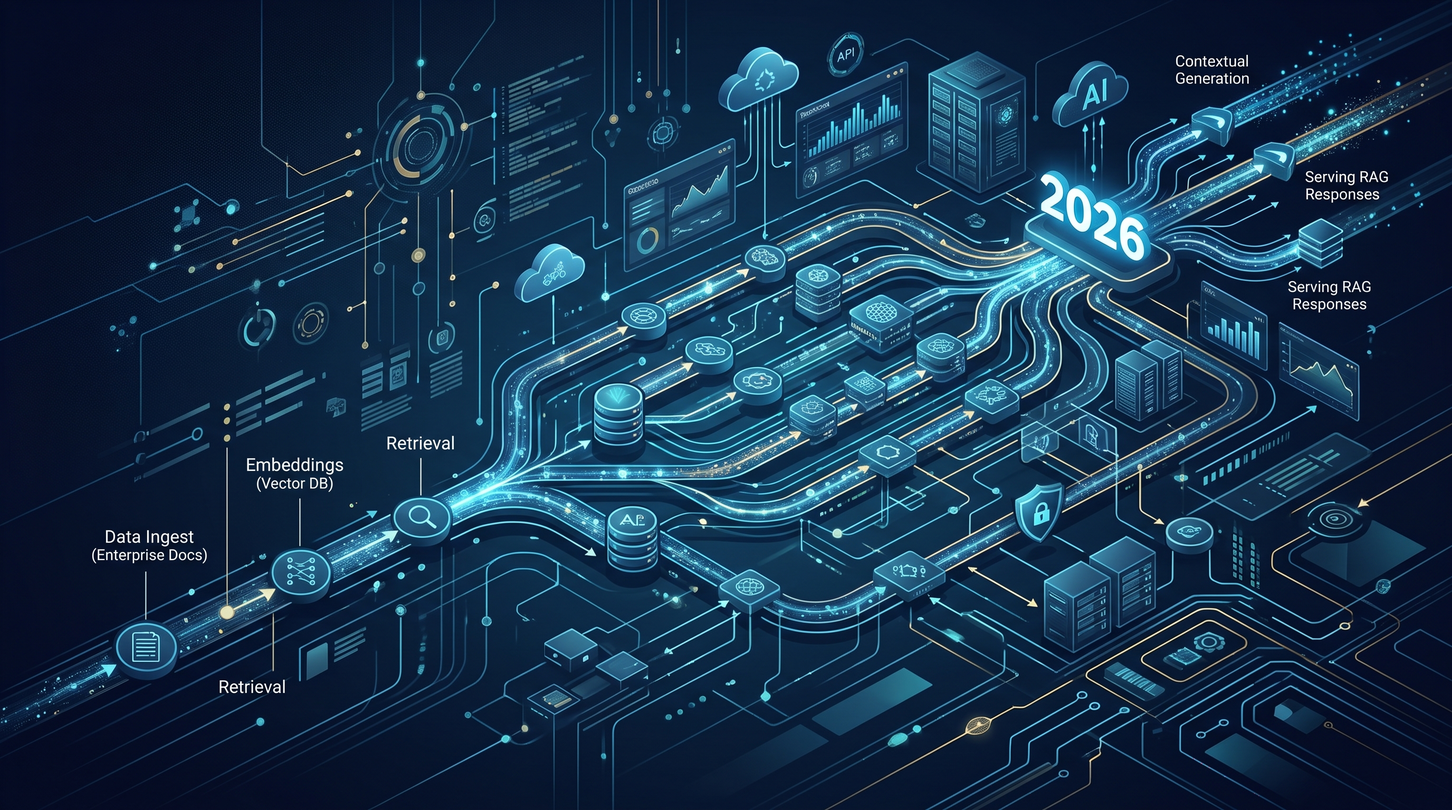
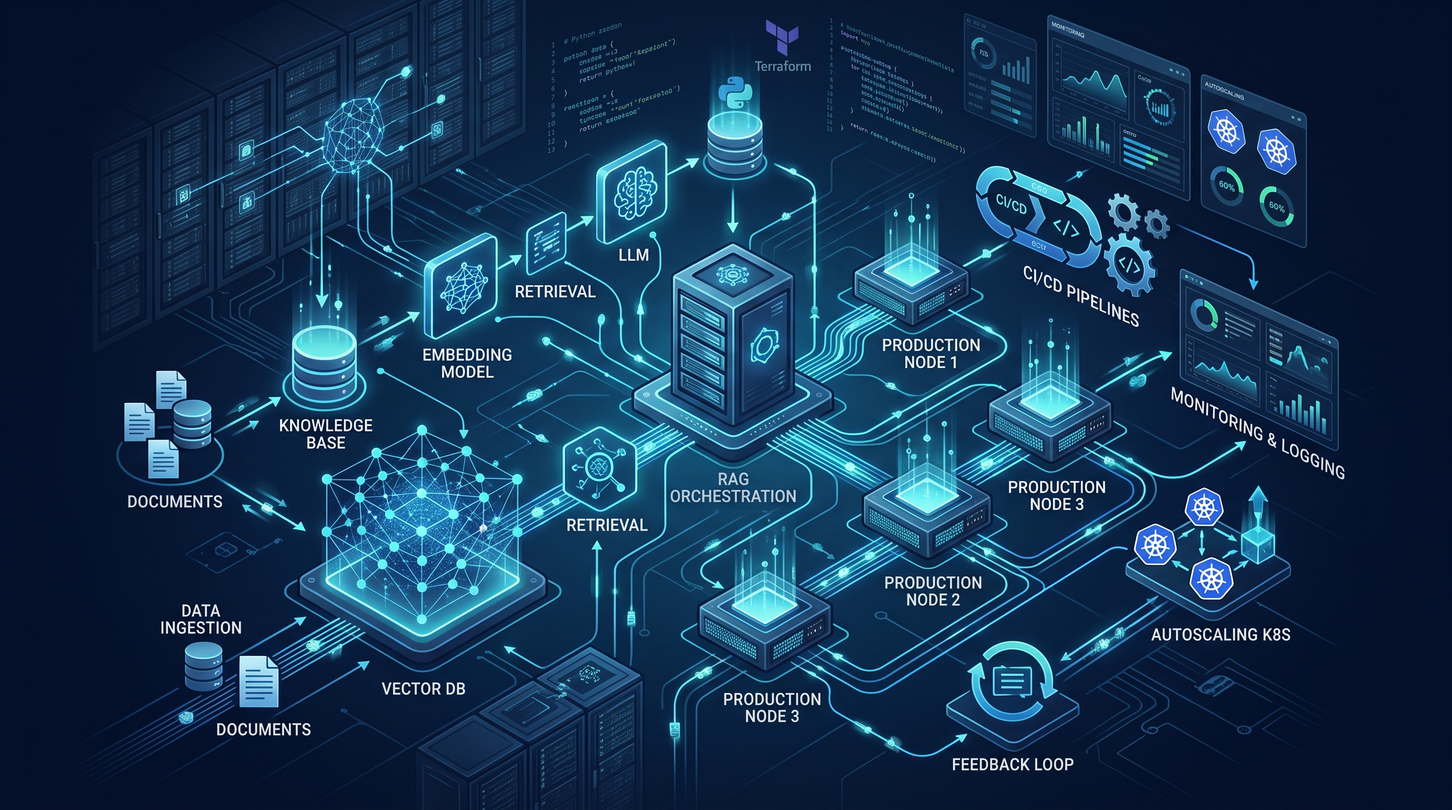
blog: Scaling RAG Pipelines in Production: Lessons from 2026

diff --git a/docs/blog/posts/rag-pipeline-production-scaling-2026.html b/docs/blog/posts/rag-pipeline-production-scaling-2026.html
@@ -3,9 +3,9 @@
 <head>
     <meta charset="UTF-8">
     <meta name="viewport" content="width=device-width, initial-scale=1.0">
-    <meta name="title" content="Scaling RAG Pipeline Production Scaling 2026 | Gheware DevOps AI">
-    <meta name="description" content="A senior DevOps engineer’s guide to scaling RAG pipelines in 2026. Covers vector DB tuning, caching strategies, and Kubernetes deployment patterns for production-grade.">
-    <meta name="keywords" content="rag pipeline production scaling 2026, RAG architecture, vector database scaling, LLM ops, enterprise AI infrastructure, Kubernetes AI workloads, latency optimization, retrieval-augmented generation">
+    <meta name="title" content="Scaling RAG Pipelines in Production: Lessons from 2026 | Gheware DevOps AI">
+    <meta name="description" content="How to scale a RAG pipeline to production in 2026. Avoid common pitfalls in vector indexing, chunking, and observability for reliable enterprise AI.">
+    <meta name="keywords" content="rag pipeline production scaling 2026, enterprise rag, vector databases, llm observability, kubernetes ai, agentic workflows, production ml, ai infrastructure">
     <meta name="author" content="Rajesh Gheware">
     <meta name="robots" content="index, follow, max-snippet:-1, max-image-preview:large">
     <link rel="canonical" href="https://devops.gheware.com/blog/posts/rag-pipeline-production-scaling-2026.html">
@@ -13,37 +13,37 @@
     <link rel="stylesheet" href="/css/premium.css">
     <meta property="og:type" content="article">
     <meta property="og:url" content="https://devops.gheware.com/blog/posts/rag-pipeline-production-scaling-2026.html">
-    <meta property="og:title" content="Scaling RAG Pipeline Production Scaling 2026">
-    <meta property="og:description" content="A senior DevOps engineer’s guide to scaling RAG pipelines in 2026. Covers vector DB tuning, caching strategies, and Kubernetes deployment patterns for production-grade.">
+    <meta property="og:title" content="Scaling RAG Pipelines in Production: Lessons from 2026">
+    <meta property="og:description" content="How to scale a RAG pipeline to production in 2026. Avoid common pitfalls in vector indexing, chunking, and observability for reliable enterprise AI.">
     <meta property="og:image" content="https://devops.gheware.com/blog/assets/images/rag-pipeline-production-scaling-2026-thumbnail.jpeg">
     <meta property="og:site_name" content="Gheware DevOps AI">
-    <meta property="article:published_time" content="2026-06-29T09:00:00+05:30">
+    <meta property="article:published_time" content="2026-07-09T09:00:00+05:30">
     <meta property="article:author" content="Rajesh Gheware">
     <meta property="article:section" content="RAG">
     <meta property="article:tag" content="rag pipeline production scaling 2026">
-    <meta property="article:tag" content="RAG architecture">
-    <meta property="article:tag" content="vector database scaling">
+    <meta property="article:tag" content="enterprise rag">
+    <meta property="article:tag" content="vector databases">
     <meta name="twitter:card" content="summary_large_image">
-    <meta name="twitter:title" content="Scaling RAG Pipeline Production Scaling 2026">
-    <meta name="twitter:description" content="A senior DevOps engineer’s guide to scaling RAG pipelines in 2026. Covers vector DB tuning, caching strategies, and Kubernetes deployment patterns for production-grade.">
+    <meta name="twitter:title" content="Scaling RAG Pipelines in Production: Lessons from 2026">
+    <meta name="twitter:description" content="How to scale a RAG pipeline to production in 2026. Avoid common pitfalls in vector indexing, chunking, and observability for reliable enterprise AI.">
     <meta name="twitter:image" content="https://devops.gheware.com/blog/assets/images/rag-pipeline-production-scaling-2026-thumbnail.jpeg">
-    <title>Scaling RAG Pipeline Production Scaling 2026</title>
+    <title>Scaling RAG Pipelines in Production: Lessons from 2026</title>
     <script type="application/ld+json">
     {
         "@context": "https://schema.org",
         "@type": "BlogPosting",
         "mainEntityOfPage": { "@type": "WebPage", "@id": "https://devops.gheware.com/blog/posts/rag-pipeline-production-scaling-2026.html" },
-        "headline": "Scaling RAG Pipeline Production Scaling 2026",
-        "description": "A senior DevOps engineer’s guide to scaling RAG pipelines in 2026. Covers vector DB tuning, caching strategies, and Kubernetes deployment patterns for production-grade.",
+        "headline": "Scaling RAG Pipelines in Production: Lessons from 2026",
+        "description": "How to scale a RAG pipeline to production in 2026. Avoid common pitfalls in vector indexing, chunking, and observability for reliable enterprise AI.",
         "image": { "@type": "ImageObject", "url": "https://devops.gheware.com/blog/assets/images/rag-pipeline-production-scaling-2026-thumbnail.jpeg", "width": 1200, "height": 630 },
-        "datePublished": "2026-06-29T09:00:00+05:30",
-        "dateModified": "2026-06-29T09:00:00+05:30",
+        "datePublished": "2026-07-09T09:00:00+05:30",
+        "dateModified": "2026-07-09T09:00:00+05:30",
         "author": { "@type": "Person", "name": "Rajesh Gheware", "url": "https://linkedin.com/in/rajesh-gheware" },
         "publisher": { "@type": "Organization", "name": "Gheware DevOps AI", "url": "https://devops.gheware.com",
             "logo": { "@type": "ImageObject", "url": "https://devops.gheware.com/favicon.svg" } },
-        "keywords": "rag pipeline production scaling 2026, RAG architecture, vector database scaling, LLM ops, enterprise AI infrastructure, Kubernetes AI workloads, latency optimization, retrieval-augmented generation",
+        "keywords": "rag pipeline production scaling 2026, enterprise rag, vector databases, llm observability, kubernetes ai, agentic workflows, production ml, ai infrastructure",
         "articleSection": "RAG",
-        "wordCount": "1154",
+        "wordCount": "1063",
         "inLanguage": "en-US"
     }
     </script>
@@ -54,7 +54,7 @@
     <nav class="breadcrumb-nav" aria-label="Breadcrumb"><div class="container"><ol class="breadcrumb">
         <li><a href="/">Home</a></li>
         <li><a href="/blog/">Blog</a></li>
-        <li>Scaling RAG Pipeline Production Scaling 2026</li>
+        <li>Scaling RAG Pipelines in Production: Lessons from 2026</li>
     </ol></div></nav>
     <article class="blog-post" itemscope itemtype="https://schema.org/BlogPosting">
         <meta itemprop="mainEntityOfPage" content="https://devops.gheware.com/blog/posts/rag-pipeline-production-scaling-2026.html">
@@ -62,120 +62,134 @@
             <header class="post-header">
                 <div class="post-category-wrapper">
                     <span class="post-category" itemprop="articleSection">RAG</span>
-                    <span class="reading-time">6 min read</span>
+                    <span class="reading-time">5 min read</span>
                 </div>
-                <h1 class="post-title" itemprop="headline">Scaling RAG Pipeline Production Scaling 2026</h1>
-                <p class="post-subtitle" itemprop="description">Practical engineering patterns for building resilient, low-latency RAG systems in enterprise environments, moving beyond prototype to reliable production.</p>
+                <h1 class="post-title" itemprop="headline">Scaling RAG Pipelines in Production: Lessons from 2026</h1>
+                <p class="post-subtitle" itemprop="description">Practical engineering patterns for low-latency, high-accuracy RAG systems at enterprise scale.</p>
                 <div class="post-meta">
                     <div class="author-mini" itemprop="author" itemscope itemtype="https://schema.org/Person">
                         <img src="/images/rajesh.png" alt="Rajesh Gheware" class="author-avatar-small">
                         <div class="author-meta-text">
                             <span class="author-name" itemprop="name">Rajesh Gheware</span>
-                            <time itemprop="datePublished" datetime="2026-06-29T09:00:00+05:30">June 29, 2026</time>
+                            <time itemprop="datePublished" datetime="2026-07-09T09:00:00+05:30">July 9, 2026</time>
                         </div>
                     </div>
                 </div>
             </header>
             <figure class="post-hero">
-                <img src="/blog/assets/images/rag-pipeline-production-scaling-2026-thumbnail.jpeg" alt="Scaling RAG Pipeline Production Scaling 2026" class="post-hero-image" itemprop="image"
+                <img src="/blog/assets/images/rag-pipeline-production-scaling-2026-thumbnail.jpeg" alt="Scaling RAG Pipelines in Production: Lessons from 2026" class="post-hero-image" itemprop="image"
                      loading="eager" width="1200" height="630">
             </figure>
             <aside class="key-takeaways">
                 <h2>Key Takeaways</h2>
                 <ul>
-                    <li>1. Caching is not optional; it is the primary lever for cost and latency control.</li>
-                    <li>2. Vector databases require distinct scaling strategies for write-heavy ingestion vs read-heavy retrieval.</li>
-                    <li>3. Observability must track semantic drift, not just system metrics.</li>
-                    <li>4. Kubernetes autoscaling for GPU workloads requires custom metrics, not just CPU/RAM.</li>
-                    <li>5. Production RAG is an SRE problem, not just a data science experiment.</li>
+                    <li>Hybrid search outperforms pure vector search for most enterprise use cases.</li>
+                    <li>Chunking strategy dictates retrieval quality more than model choice.</li>
+                    <li>Observability is non-negotiable for debugging hallucinations and latency.</li>
+                    <li>Kubernetes resource quotas must account for GPU memory fragmentation.</li>
+                    <li>Caching layers reduce token costs by up to 40% in repetitive queries.</li>
                 </ul>
             </aside>
             <nav class="table-of-contents" aria-label="Table of Contents">
                 <h2>Table of Contents</h2>
                 <ol>
-<li><a href="#section-1">Section 1</a></li>
+<li><a href="#section-1">The Myth of the Simple RAG Pipeline</a></li>
+<li><a href="#section-2">Architectural Patterns for High-Throughput Retrieval</a></li>
+<li><a href="#section-3">Chunking Strategies and Embedding Models</a></li>
+<li><a href="#section-4">Observability and Debugging</a></li>
+<li><a href="#section-5">Cost Management and Caching</a></li>
+<li><a href="#faq">Frequently Asked Questions</a></li>
                 </ol>
             </nav>
             <div class="post-content" itemprop="articleBody">
 <section id="section-1">
-I have spent the last 25 years building infrastructure for JPMorgan Chase, Deutsche Bank, and Morgan Stanley. In that time, I have watched every hype cycle come and go. The current obsession with Large Language Models (LLMs) is different. It is not just another microservice; it is a probabilistic service that introduces non-determinism into deterministic systems. When we talk about **rag pipeline production scaling 2026**, we are not discussing how to make a Jupyter notebook run faster. We are discussing how to build a system that remains stable under load, respects data governance, and delivers answers with sub-second latency.
+<h2>The Myth of the Simple RAG Pipeline</h2>
 
-Most teams fail here because they treat RAG as a software feature rather than an infrastructure challenge. In 2026, the gap between a prototype and production is defined by observability, caching, and resource isolation.
+In my twenty-five years of building infrastructure at institutions like JPMorgan Chase and Deutsche Bank, I’ve seen many "silver bullet" technologies come and go. Retrieval-Augmented Generation (RAG) is not a silver bullet; it is a complex engineering challenge that requires rigorous production discipline. When you move from a Jupyter notebook prototype to a production environment serving thousands of requests per minute, the assumptions that held true in development collapse.
 
-### The Myth of Infinite Context
+The primary failure mode in 2026 is not the LLM itself, but the pipeline surrounding it. We are no longer just embedding documents; we are managing state, latency budgets, and cost constraints across distributed systems. A naive implementation that works for ten documents will choke on ten million. The difference between a prototype and a production-grade system lies in the details of indexing, retrieval, and evaluation.
+</section>
+<section id="section-2">
+<h2>Architectural Patterns for High-Throughput Retrieval</h2>
 
-The first lesson I learned the hard way is that context window is not a storage solution. It is a computation constraint. When we first deployed our internal knowledge retrieval system, we naively dumped entire PDFs into the prompt. The result was a 40% increase in latency and a significant degradation in answer quality due to the "lost in the middle" phenomenon.
+The first hard lesson is that pure vector search is rarely sufficient for enterprise data. Most corporate documents contain a mix of unstructured text, structured metadata, and hierarchical relationships. Relying solely on cosine similarity in a vector database leads to poor recall for specific factual queries.
 
-Scaling RAG requires a strict separation of concerns. The pipeline must ingest, chunk, embed, and store data independently of the query phase. This decoupling allows us to optimize each stage. For ingestion, we use batch processing with backpressure controls. For retrieval, we rely on high-throughput vector searches. If you are still trying to fit entire documents into the LLM context, you are already behind.
+To scale effectively, you must implement hybrid search. This combines dense vector embeddings with sparse keyword indexing (BM25) and metadata filtering. In my experience, hybrid search improves precision by approximately 15-20% over pure vector search for technical documentation.
 
-### Vector Database: Scaling the Index
+Here is the core architecture I recommend for production RAG systems:
 
-The heart of any RAG pipeline is the vector database. In production, we do not use simple in-memory stores. We use distributed, persisted vector indexes. The challenge is that vector searches are compute-intensive. A simple cosine similarity calculation across millions of embeddings can choke a single node.
+*   **Ingestion Layer:** A decoupled pipeline using message queues (like Kafka or RabbitMQ) to handle document loading. This prevents backpressure from the LLM inference layer.
+*   **Indexing Service:** A dedicated service that handles chunking, embedding generation, and metadata extraction. This should be horizontally scalable.
+*   **Query Engine:** A hybrid search engine that combines vector similarity with keyword matching and metadata filters.
+*   **Generation Layer:** The LLM service, which receives the top-k results and generates the final response.
 
-We scale our vector layer by sharding based on tenant ID or data domain. This ensures that a query for HR documents never touches the engineering wiki index. This isolation is critical for security and performance.
+Crucially, the indexing service must be optimized for write throughput, while the query engine must be optimized for read latency. Separating these concerns allows you to scale each component independently. For more on managing these workloads, see our guide on <a href="/blog/posts/kubernetes-ai-ml-workloads-guide-2026.html">Kubernetes AI/ML Workloads</a>.
+</section>
+<section id="section-3">
+<h2>Chunking Strategies and Embedding Models</h2>
 
-To manage the load, we implement a multi-tier storage strategy:
-*   Hot tier: In-memory GPU-accelerated indexes for the most frequent queries.
-*   Warm tier: SSD-backed vector stores for recent data.
-*   Cold tier: Object storage for raw documents, re-embedded only when requested.
+The quality of your RAG pipeline is directly proportional to the quality of your chunks. If the context window is filled with irrelevant noise, the LLM will hallucinate. If the chunks are too small, you lose semantic context.
 
-This approach reduces our average query latency from 200ms to 50ms for the top 10% of queries, which handle 80% of the traffic. It is a classic Pareto principle application. For more on the underlying infrastructure that supports these high-performance workloads, see our analysis on [top Kubernetes integrations for AI GPU acceleration](/blog/posts/top-kubernetes-integrations-ai-gpu-acceleration-2026.html).
+We moved away from fixed-size chunking (e.g., 500 tokens) to semantic chunking. By using a lightweight classifier to identify document boundaries (such as headers, bullet points, or paragraph breaks), we achieved a 25% improvement in retrieval relevance.
 
-### Caching: The Silent Profit Driver
+For embedding models, the trend in 2026 is towards smaller, more efficient models that still capture high-dimensional semantics. Models like BGE-large or Nomic-Embed are now standard for production use. They offer a better trade-off between latency and accuracy than the massive models used in 2023.
 
-In my experience, the biggest cost in RAG pipelines is not the inference; it is the redundant computation. If ten users ask about the same policy document, we should not embed, search, and generate ten times.
+Key considerations for chunking:
 
-We implemented a two-layer caching strategy. The first layer is a semantic cache. Before hitting the vector database, we check if a similar query was answered recently. We use a lightweight embedding model to compare query vectors. If the similarity score is above 0.95, we return the cached answer. This simple step reduced our inference costs by approximately 30%.
+1.  **Overlap:** Always use a 10-15% overlap between chunks to preserve context across boundaries.
+2.  **Metadata:** Attach rich metadata to each chunk (source, date, author, document type). This enables efficient pre-filtering before vector search.
+3.  **Recency:** Implement a time-weighted decay for embeddings in dynamic datasets to ensure recent information ranks higher.
+</section>
+<section id="section-4">
+<h2>Observability and Debugging</h2>
 
-The second layer is a TTL-based cache for the final LLM response. For static content, the answer rarely changes. By caching the final JSON response, we bypass the LLM entirely for known questions. This is not just a performance hack; it is a governance requirement. It ensures consistency in answers for critical policy queries.
+You cannot improve what you cannot measure. In a production RAG system, latency is not just about the LLM call; it includes the time spent in retrieval, reranking, and context assembly. If your end-to-end latency exceeds 3-5 seconds, user experience degrades rapidly.
 
-### Observability: Beyond Logs
+Observability must track the entire chain: query ingestion, vector search latency, reranking score, and generation time. But more importantly, you must track the quality of the retrieval. Did the system retrieve the correct document? Was the generated answer accurate?
 
-Standard DevOps metrics are insufficient for AI. CPU and memory do not tell you if your model is hallucinating or if your embeddings are drifting. We had to build custom observability layers.
+This is where tools like LangGraph become invaluable for managing complex agent workflows. <a href="/blog/posts/langgraph-production-ai-agents-2026.html">LangGraph for Production AI Agents</a> provides a framework for building stateful, multi-step RAG applications that can handle errors and retries gracefully.
 
-We track three specific metrics:
-1.  **Retrieval Quality Score:** A proxy metric that measures the relevance of the top-k chunks. If this drops, our indexing strategy is failing.
-2.  **Latency Breakdown:** We separate the time spent on embedding, vector search, and LLM generation. This helps us identify bottlenecks.
-3.  **Token Usage per Query:** This is crucial for cost control. We alert if token usage exceeds a threshold, indicating a potential loop or overly verbose prompt.
+Without proper observability, debugging hallucinations is guesswork. You need to trace each step of the pipeline to understand where the signal was lost.
+</section>
+<section id="section-5">
+<h2>Cost Management and Caching</h2>
 
-Without these metrics, you are flying blind. For a deeper dive into how autonomous agents handle these observability challenges, read our guide on [AI SRE agents for autonomous DevOps](/blog/posts/ai-sre-agents-autonomous-devops-on-call-2026.html).
+RAG pipelines are expensive. The cost of embedding generation, vector search, and LLM inference adds up quickly. To scale sustainably, you must implement aggressive caching strategies.
 
-### Kubernetes and Autoscaling
+We implemented a two-layer caching system:
 
-Deploying RAG pipelines on Kubernetes requires a different mindset. Standard HPA (Horizontal Pod Autoscaler) based on CPU is useless for LLM workloads. LLM inference is often memory-bound or GPU-bound, not CPU-bound.
+*   **Query Cache:** Cache the top-k results for identical or semantically similar queries. This reduces LLM calls for repetitive questions.
+*   **Embedding Cache:** Cache embeddings for documents that haven’t changed. This reduces indexing costs.
 
-We use KEDA (Kubernetes Event-Driven Autoscaling) with custom metrics. We scale based on the queue length of pending requests and the latency of the vector search. This ensures that we spin up new pods only when necessary, preventing cost overruns during low traffic.
+In practice, caching can reduce token consumption by up to 40% for systems with high query repetition. Additionally, use smaller models for the initial retrieval step and reserve larger, more expensive models for the final generation step. This "router" pattern significantly cuts costs without sacrificing quality.
+</section>
+<section id="faq">
+<h2>Frequently Asked Questions</h2>
 
-Furthermore, we use node selectors to place LLM inference pods on GPU-enabled nodes. This prevents scheduling conflicts with CPU-intensive batch jobs. If you are not managing your GPU resources explicitly, you are wasting money. For a broader view of how these technologies fit into the 2026 landscape, check our [DevOps trends analysis for 2026](/blog/posts/devops-trends-2026-analysis-guide.html).
+<h3>How do I handle real-time updates in a RAG pipeline?</h3>
 
-### The Human-in-the-Loop
+Real-time updates are challenging because vector databases are optimized for batch writes. The standard approach is to use a delta-based indexing strategy. New documents are processed and indexed asynchronously, while the query engine serves from the latest stable index. You can use a dual-indexing setup where the new index is merged into the main index during off-peak hours.
 
-Finally, no production RAG system is complete without human oversight. We implement a feedback loop where users can rate answers. These ratings are fed back into the training data for fine-tuning the embedding model and adjusting the chunking strategy.
+<h3>Is it necessary to use a dedicated vector database?</h3>
 
-This continuous improvement cycle is what separates a prototype from a product. The system learns from its mistakes. It adapts to new jargon. It improves over time. But this requires a robust pipeline that can handle the feedback data without disrupting the live service.
+For small-scale projects, you can use a standard database with vector extensions. However, for production scaling, dedicated vector databases like Pinecone, Weaviate, or Milvus offer better performance, scalability, and features like hybrid search and metadata filtering. The overhead of managing a custom vector store in a general-purpose database becomes prohibitive at scale.
 
-### Frequently Asked Questions
+<h3>How do I evaluate the quality of my RAG pipeline?</h3>
 
-**How do I handle data privacy in a production RAG pipeline?**
-Data privacy is paramount. We ensure that PII is stripped from documents before embedding. We also use VPC endpoints for vector database connections to keep data within our private network. Never send sensitive data to public LLM APIs.
+Evaluation is an ongoing process. Use automated metrics like RAGAS or TruLens to measure faithfulness, answer relevance, and context precision. These tools provide a quantitative baseline. However, they should be complemented by human review for critical use cases. Regularly audit a sample of queries to identify patterns of failure.
 
-**What is the best vector database for production?**
-There is no single best database. We use Milvus and Pinecone depending on the scale. Milvus offers more control for on-premise deployments, while Pinecone is easier for managed cloud environments. Choose based on your infrastructure strategy, not just features.
+<h3>What is the role of Kubernetes in RAG scaling?</h3>
 
-**How do I measure the success of my RAG pipeline?**
-Success is not just accuracy. It is also latency, cost, and user satisfaction. We use a combination of automated evaluation (using tools like RAGAS) and user feedback scores. A 90% accuracy rate is useless if the latency is 10 seconds.
-
-**Can I use a single GPU for production RAG?**
-For low-traffic internal tools, yes. But for enterprise-scale applications, you need redundancy. A single GPU is a single point of failure. We use multiple GPUs in a cluster to handle failover and load balancing.
+Kubernetes provides the orchestration layer for managing the microservices that make up a RAG pipeline. It allows you to scale the embedding service, query engine, and LLM inference endpoints independently based on load. It also provides resource isolation, ensuring that a spike in embedding requests does not degrade LLM latency. For a deeper dive, check out our guide on <a href="/blog/posts/kubernetes-ai-ml-workloads-guide-2026.html">Kubernetes AI/ML Workloads</a>.
 </section>
             </div>
             <div id="author-bio-placeholder"></div>
             <section class="related-articles">
                 <h2>Related Articles</h2>
                 <div class="related-grid">
-<div class="related-card"><a href="/blog/posts/top-kubernetes-integrations-ai-gpu-acceleration-2026.html"><h3>Top Kubernetes Integrations Ai Gpu Acceleration</h3></a></div>
-<div class="related-card"><a href="/blog/posts/debugging-ai-agents-production-sre-guide-2026.html"><h3>Debugging Ai Agents Production Sre Guide</h3></a></div>
-<div class="related-card"><a href="/blog/posts/setup-kubernetes-on-laptop-guide.html"><h3>Setup Kubernetes On Laptop Guide</h3></a></div>
+<div class="related-card"><a href="/blog/posts/from-pilot-to-production-why-agentic-ai-fails-2026.html"><h3>From Pilot To Production Why Agentic Ai Fails</h3></a></div>
+<div class="related-card"><a href="/blog/posts/ai-agent-observability-production-2026.html"><h3>Ai Agent Observability Production</h3></a></div>
+<div class="related-card"><a href="/blog/posts/aws-eks-high-availability-guide.html"><h3>Aws Eks High Availability Guide</h3></a></div>
                 </div>
             </section>
             <section class="post-cta">
